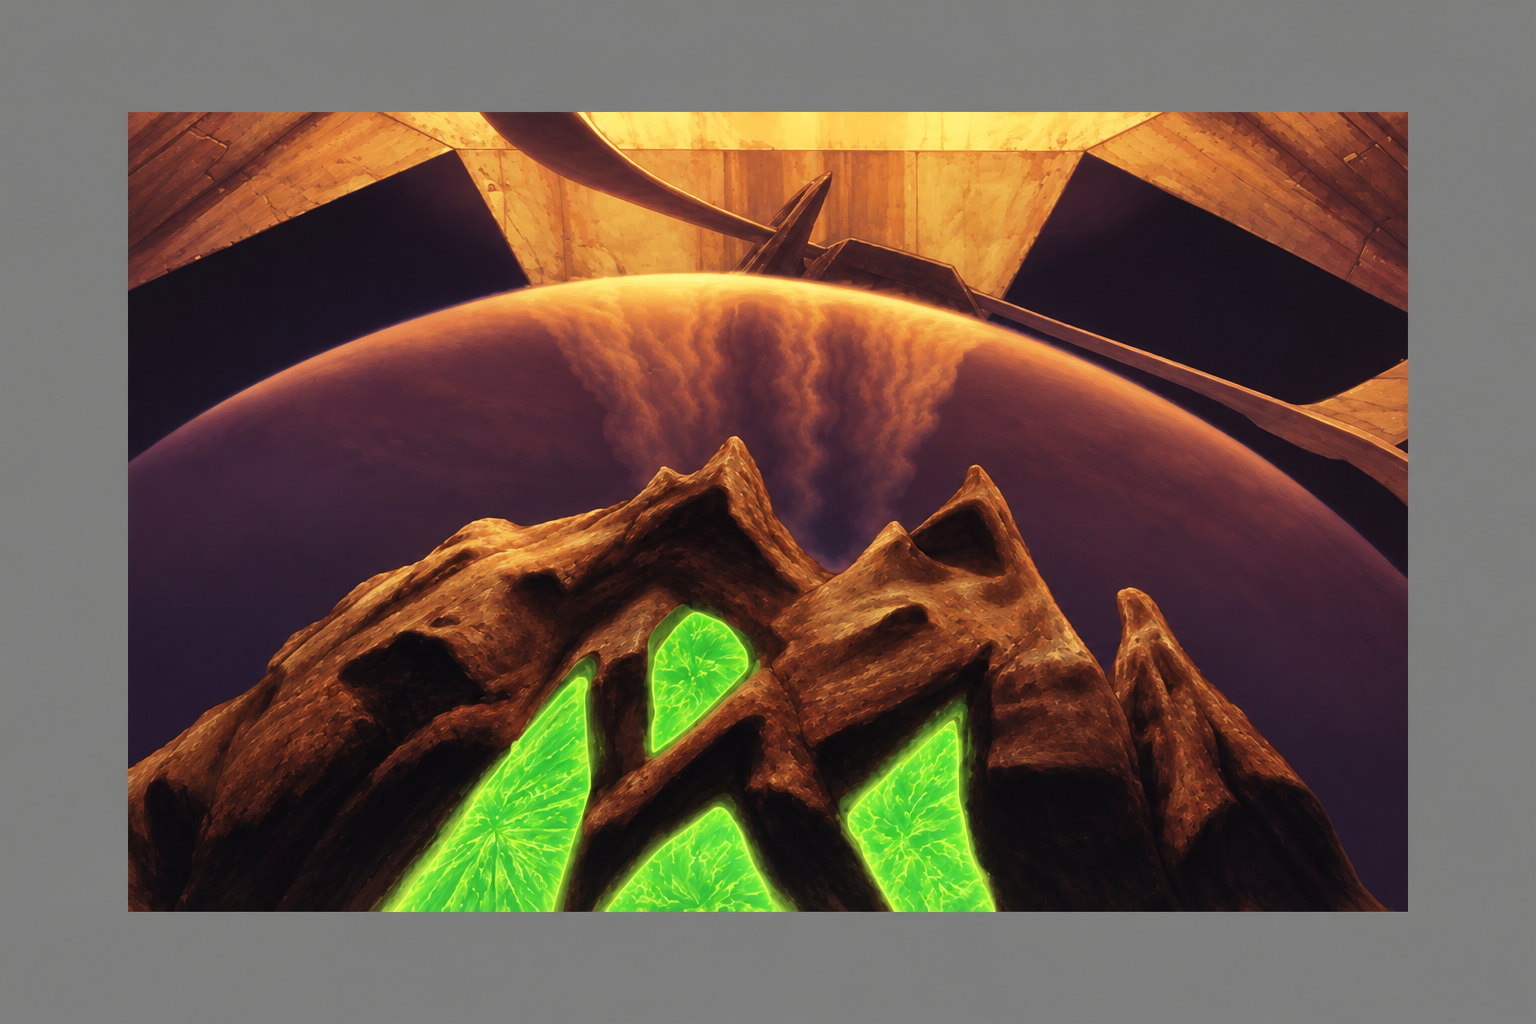
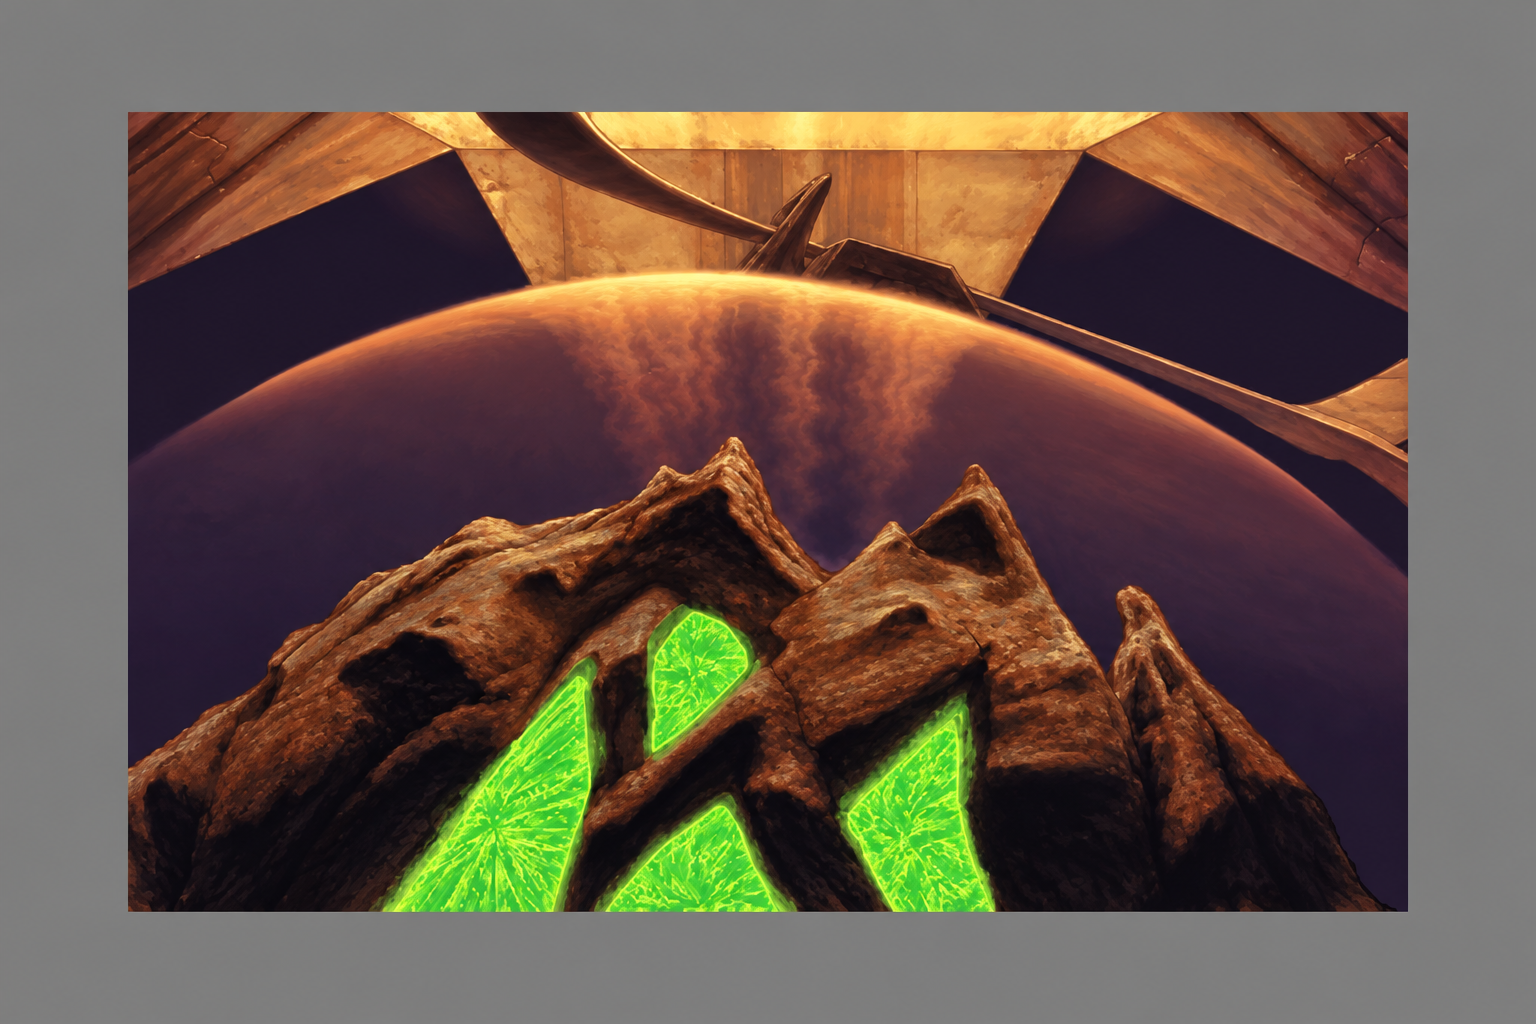
GPT: rom088_del6av9, rom088_del7av9, rom088_del8av9, rom088_del9av9, rom111

diff --git a/jobber/rom088_del6av9/notat.md b/jobber/rom088_del6av9/notat.md
@@ -3,17 +3,23 @@
 Levert for Claudes kontroll.
 
 - Verktøy: ChatGPT Images, innebygd bildeverktøy i Codex. Modellnavn og versjon vises ikke.
-- Dato: 2026-10-07 12:10 CEST.
-- Forsøk: 5. Valgt forsøk: 1.
+- Dato: 2026-10-07 12:38 CEST.
+- Forsøk: 6. Valgt forsøk: 1.
 - Prompt: prompt.txt brukt ordrett i alle forsøk.
 - Bilde 1: referanse.png. Bilde 2 i valgt forsøk: stil/room009_core.png.
 - Format: PNG, 1536 x 1024. Originalfilen fra bildeverktøyet er kopiert direkte.
 
-Kontrollkandidat med kjent feil etter fem forsøk. Alle forsøk malte over det svarte området oppe til venstre med veggdetaljer. Forsøk 1 er valgt for resten av veggens hovedformer, men dette er ikke en korrekt produksjonsleveranse. Det svarte feltet må gjenopprettes før bruk. Fine sprekker og blå lyspunkter er også tolket friere. Kontroller feltenes grenser og overlapp mot de øvrige delene.
+Returen er ikke løst. Claude avviste kandidaten med opptil 17.9 originalpiksler i lokal forskyvning og kantlikhet 0.54.
+
+Et nytt forsøk fra referansen med prompt.txt ordrett fylte igjen det svarte feltet til venstre med vegg. Også den beholdte kandidaten har denne feilen. Nytt forsøk 6 ga ingen tydelig forbedring, og resultat.png fra forsøk 1 er derfor beholdt uendret. Alle seks forsøk har tolket det svarte feltet feil. De blå punktene og veggfugene har også avvik.
+
+Det svarte feltet hører til selve bildet og skal ikke være stein, grå kant eller ekstra innhold. Dette må rettes før bildet kan brukes. Claudes avvisning gjelder fortsatt.
+
+Returens alternative prompt er ikke brukt, siden Tom har bedt om prompt.txt ordrett.
 
 Ingen grå kant i dette utsnittet.
 
-Visuell sammenligning er utført. Claudes automatiske kontroll, sammensying og kontroll i spillet gjenstår.
+Visuell sammenligning er utført. Claudes tidligere avvisning gjelder fortsatt. Geometriretting og ny kontroll gjenstår.
 
 Referanse SHA256: 7aaa60e1e436ec38ec1d1b22f536edf13301256e7de5ecb909fc58777998ef7c
 Prompt SHA256: 68fd92a59b12135aa447da2f1beb14bb81d6a0a7f6b50b0de1fe0da65c94c527

diff --git a/jobber/rom111/notat.md b/jobber/rom111/notat.md
@@ -3,13 +3,17 @@
 Levert for Claudes kontroll.
 
 - Verktøy: ChatGPT Images, innebygd bildeverktøy i Codex. Modellnavn og versjon vises ikke.
-- Dato: 2026-10-07 11:08 CEST.
-- Forsøk: 4. Valgt forsøk: 4.
+- Dato: 2026-10-07 12:38 CEST.
+- Forsøk: 5. Valgt forsøk: 5.
 - Prompt: prompt.txt brukt ordrett i alle forsøk.
 - Bilde 1: referanse.png. Bilde 2 i valgt forsøk: stil/room009_core.png.
 - Format: PNG, 1536 x 1024. Originalfilen fra bildeverktøyet er kopiert direkte.
 
-Nytt forsøk etter retur om opptil 6.8 originalpiksler i forrige leveranse. Referansen er brukt som bilde som redigeres, og prompt.txt er fortsatt brukt ordrett etter Toms instruksjon. Fjelltoppene, de grønne feltene og åpningene øverst ligger visuelt nær originalen, men presis plassering er ikke bekreftet. Krystallfeltene har nye indre linjer. Claudes geometrikontroll må kjøres på denne filen.
+Nytt forsøk etter retur. Forrige kandidat forbedret Claudes måling fra opptil 6.8 til 1.4 originalpiksler i lokal forskyvning, men var fortsatt merket sjekk.
+
+De fire grønne feltene, de mørke sideåpningene og hovedbuene følger referansen visuelt. Den store bollen, bergformene og mønstrene i de grønne feltene er tolket friere. Ny kontroll må bekrefte plassering og hver kontur. Det er ikke dokumentert at de resterende avvikene er løst.
+
+Returens alternative prompt er ikke brukt, siden Tom har bedt om prompt.txt ordrett.
 
 Den grå kanten har svak gradering og er ikke ensfarget #808080. Den er levert som generert.
 
@@ -18,4 +22,4 @@ Visuell sammenligning er utført. Claudes automatiske kontroll, sammensying og k
 Referanse SHA256: 2c68dd79b7849d984845ee2599e6e445b194ad9df4d67b66f03077b04dc2aed1
 Prompt SHA256: f5e5319b2aeb869bb02243dc9cc98900cdc8dc9731a63d232b8ddf92dd84ab3e
 Stilanker SHA256: fd37d46069b111b1f5c85bdfde9f429dbc5f8a7f8333efc9d24ab466fc6c2ba4
-Resultat SHA256: 4291404c30ba3b032fc63ac89d28a06bba6219f8b9e9fdaa76da80ccf7542bca
+Resultat SHA256: e5243da5f77118f1a6ba2a9e428f64527858bcc4ecc23e2cf91c7d9b3a761347

diff --git a/jobber/rom088_del7av9/notat.md b/jobber/rom088_del7av9/notat.md
@@ -3,17 +3,21 @@
 Levert for Claudes kontroll.
 
 - Verktøy: ChatGPT Images, innebygd bildeverktøy i Codex. Modellnavn og versjon vises ikke.
-- Dato: 2026-10-07 12:10 CEST.
-- Forsøk: 5. Valgt forsøk: 4.
+- Dato: 2026-10-07 12:38 CEST.
+- Forsøk: 6. Valgt forsøk: 4.
 - Prompt: prompt.txt brukt ordrett i alle forsøk.
 - Bilde 1: referanse.png. Bilde 2 i valgt forsøk: stil/room009_core.png.
 - Format: PNG, 1536 x 1024. Originalfilen fra bildeverktøyet er kopiert direkte.
 
-Kontrollkandidat med kjente feil etter fem forsøk. Alle forsøk malte over det svarte toppfeltet og forskjøv resten av innholdet. Forsøk 4 er valgt som kontrollkandidat, men dette er ikke en korrekt produksjonsleveranse. Toppfeltet og hele innholdets plassering må gjenopprettes før bruk. Dørmarkeringer og steintekstur er også tolket friere. Ny geometrikontroll og kontroll mot de øvrige delene er nødvendig.
+Returen er ikke løst. Claude har bekreftet at det svarte feltet øverst er malt over med fjell, og at innholdets plassering er feil.
+
+Nytt forsøk 6 malte igjen det svarte feltet og flyttet formene. Det ga ingen tydelig forbedring. Resultat.png fra forsøk 4 er beholdt uendret. Alle seks forsøk avviker fra referansen. Det svarte feltet øverst skal beholdes nøyaktig svart i samme form og størrelse. Døren, steinkulen, spiralen og gulvet må følge referansens plassering. Kandidaten skal ikke brukes som ferdig grafikk. Claudes avvisning gjelder fortsatt.
+
+Returens nye, spesifikke korrigeringsprompt er ikke brukt, siden Tom har bedt om prompt.txt ordrett.
 
 Ingen grå kant i dette utsnittet.
 
-Visuell sammenligning er utført. Claudes automatiske kontroll, sammensying og kontroll i spillet gjenstår.
+Visuell sammenligning er utført. Claudes tidligere avvisning gjelder fortsatt. Geometriretting og ny kontroll gjenstår.
 
 Referanse SHA256: 3acf60e80aeeb781cfdcf16a156ea4b0c2c251aa28d35b29b623784af3795e7f
 Prompt SHA256: afe14311f4dc75ee038edcca9abe5bed1eb135c23a62a5ed598f422cd5fe8dd3

diff --git a/jobber/rom088_del9av9/notat.md b/jobber/rom088_del9av9/notat.md
@@ -3,17 +3,21 @@
 Levert for Claudes kontroll.
 
 - Verktøy: ChatGPT Images, innebygd bildeverktøy i Codex. Modellnavn og versjon vises ikke.
-- Dato: 2026-10-07 12:10 CEST.
-- Forsøk: 5. Valgt forsøk: 1.
+- Dato: 2026-10-07 12:38 CEST.
+- Forsøk: 6. Valgt forsøk: 1.
 - Prompt: prompt.txt brukt ordrett i alle forsøk.
 - Bilde 1: referanse.png. Bilde 2 i valgt forsøk: stil/room009_core.png.
 - Format: PNG, 1536 x 1024. Originalfilen fra bildeverktøyet er kopiert direkte.
 
-Kontrollkandidat med kjent feil etter fem forsøk. Alle forsøk malte over det svarte området oppe til venstre med veggdetaljer. Forsøk 1 er valgt for resten av bildet, men dette er ikke en korrekt produksjonsleveranse. Det svarte feltet må gjenopprettes før bruk. De små formene og blå lyspunktene er tolket friere. Kontroller antall, plassering og overlapp mot de øvrige delene.
+Returen er ikke løst. Claude avviste kandidaten med opptil 22.9 originalpiksler i lokal forskyvning.
+
+Nytt forsøk 6 malte igjen det svarte feltet øverst til venstre som vegg, og små blå former ble tolket friere. Ingen tydelig forbedring er oppnådd gjennom seks forsøk. Resultat.png fra forsøk 1 er beholdt uendret. Også denne kandidaten mangler det svarte feltet og har avvik i figurer, steiner og gulv. Det svarte feltet skal beholdes på samme sted med samme form. Claudes avvisning gjelder fortsatt.
+
+Returens alternative prompt er ikke brukt, siden Tom har bedt om prompt.txt ordrett.
 
 Ingen grå kant i dette utsnittet.
 
-Visuell sammenligning er utført. Claudes automatiske kontroll, sammensying og kontroll i spillet gjenstår.
+Visuell sammenligning er utført. Claudes tidligere avvisning gjelder fortsatt. Geometriretting og ny kontroll gjenstår.
 
 Referanse SHA256: 7ac35280c7bee36df35607faa805df7245a059bf2d026fcb51068906d3a27ff1
 Prompt SHA256: 8dc5a0784a65d3185f2dd7699b75c28f1cbac75f8262aacf17dd0d24dd0e96ad

diff --git a/jobber/rom088_del8av9/notat.md b/jobber/rom088_del8av9/notat.md
@@ -3,17 +3,21 @@
 Levert for Claudes kontroll.
 
 - Verktøy: ChatGPT Images, innebygd bildeverktøy i Codex. Modellnavn og versjon vises ikke.
-- Dato: 2026-10-07 12:10 CEST.
-- Forsøk: 3. Valgt forsøk: 3.
+- Dato: 2026-10-07 12:38 CEST.
+- Forsøk: 4. Valgt forsøk: 3.
 - Prompt: prompt.txt brukt ordrett i alle forsøk.
 - Bilde 1: referanse.png. Bilde 2 i valgt forsøk: stil/room009_core.png.
 - Format: PNG, 1536 x 1024. Originalfilen fra bildeverktøyet er kopiert direkte.
 
-Tredje forsøk er valgt fordi det svarte feltet oppe til venstre er beholdt. Feltet ble malt over i de to første forsøkene. Søyle, gulv og lys spiralform følger hovedformene visuelt. Steinmønstre og de små blå lyspunktene er tolket friere. Kontroller den svarte feltgrensen og overlappet mot de øvrige delene.
+Returen er ikke løst. Claude avviste kandidaten med opptil 6.1 originalpiksler i lokal forskyvning.
+
+Forsøk 4 malte over det svarte feltet øverst med ekstra fjell og endret oppbygningen. Resultat.png fra forsøk 3 er derfor beholdt uendret. Denne kandidaten beholder det svarte feltet, men søyle, spiral, sprekker, steiner og blå punkter trenger geometriretting. Claudes avvisning gjelder fortsatt.
+
+Returens alternative prompt er ikke brukt, siden Tom har bedt om prompt.txt ordrett.
 
 Ingen grå kant i dette utsnittet.
 
-Visuell sammenligning er utført. Claudes automatiske kontroll, sammensying og kontroll i spillet gjenstår.
+Visuell sammenligning er utført. Claudes tidligere avvisning gjelder fortsatt. Geometriretting og ny kontroll gjenstår.
 
 Referanse SHA256: b10a4b457182f2fb6df17bffac14d88044cf02408877c2bf7ace024d3f3987aa
 Prompt SHA256: b3bffc69a4e6f6d2436c98a47b23e6308a252f1107b479949070b0f1be795e00
